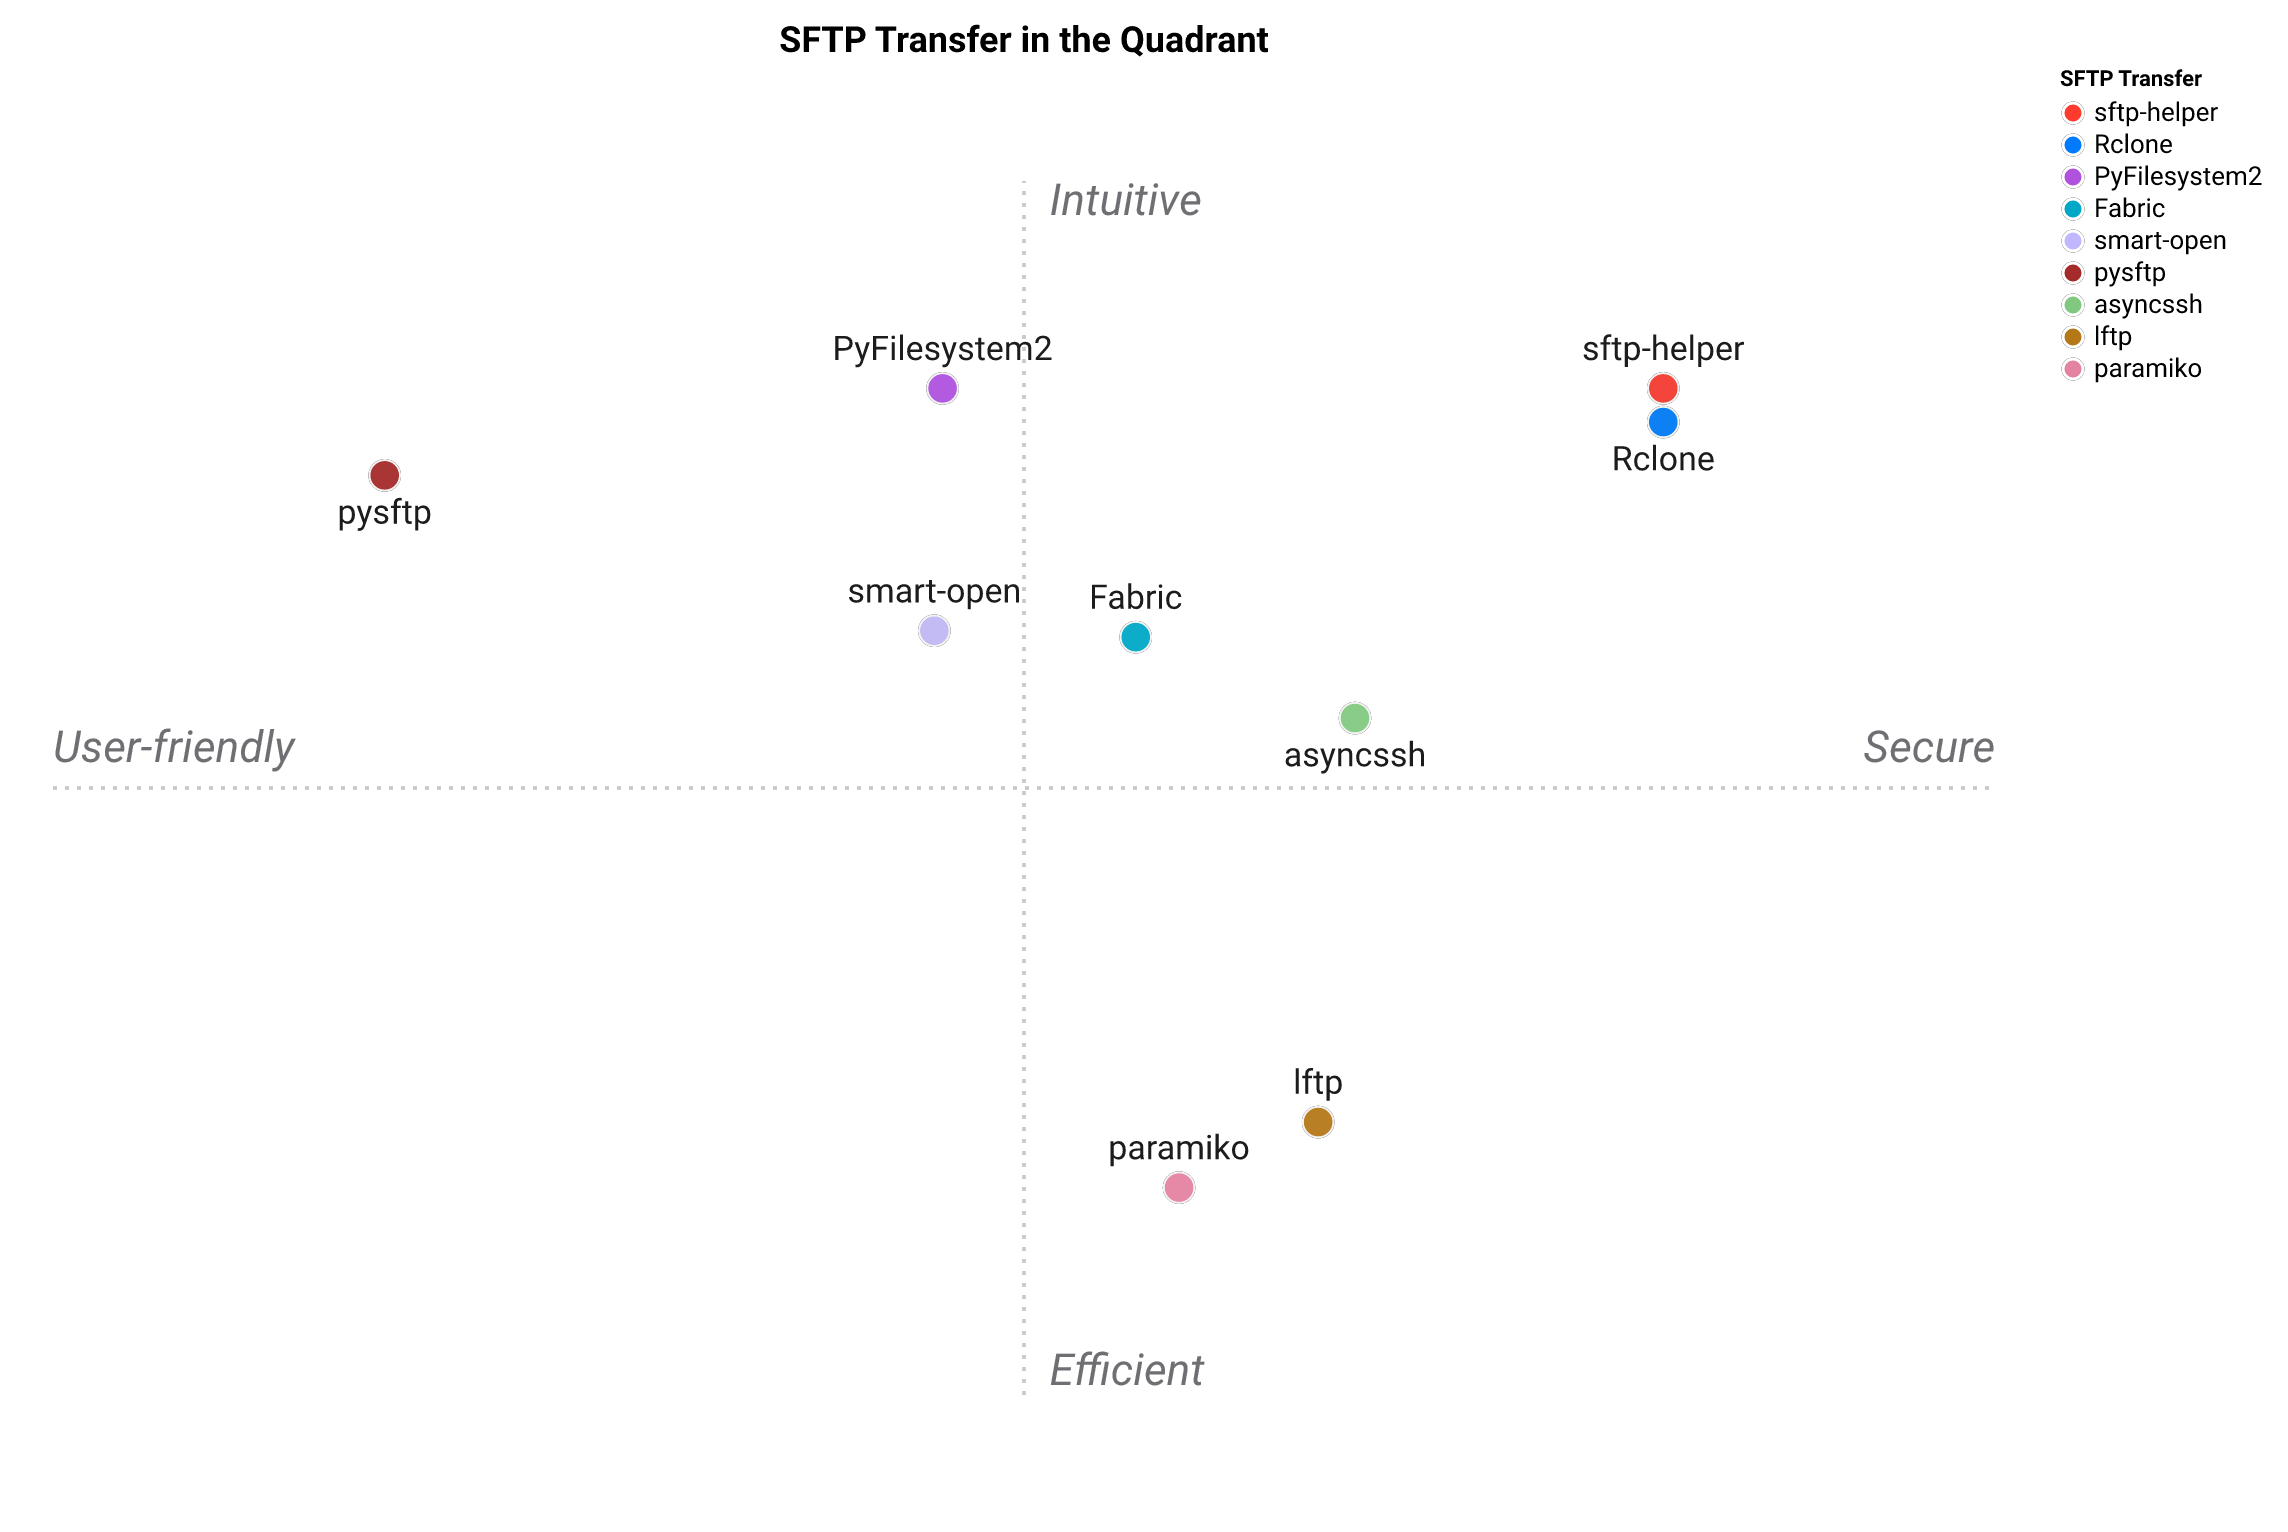
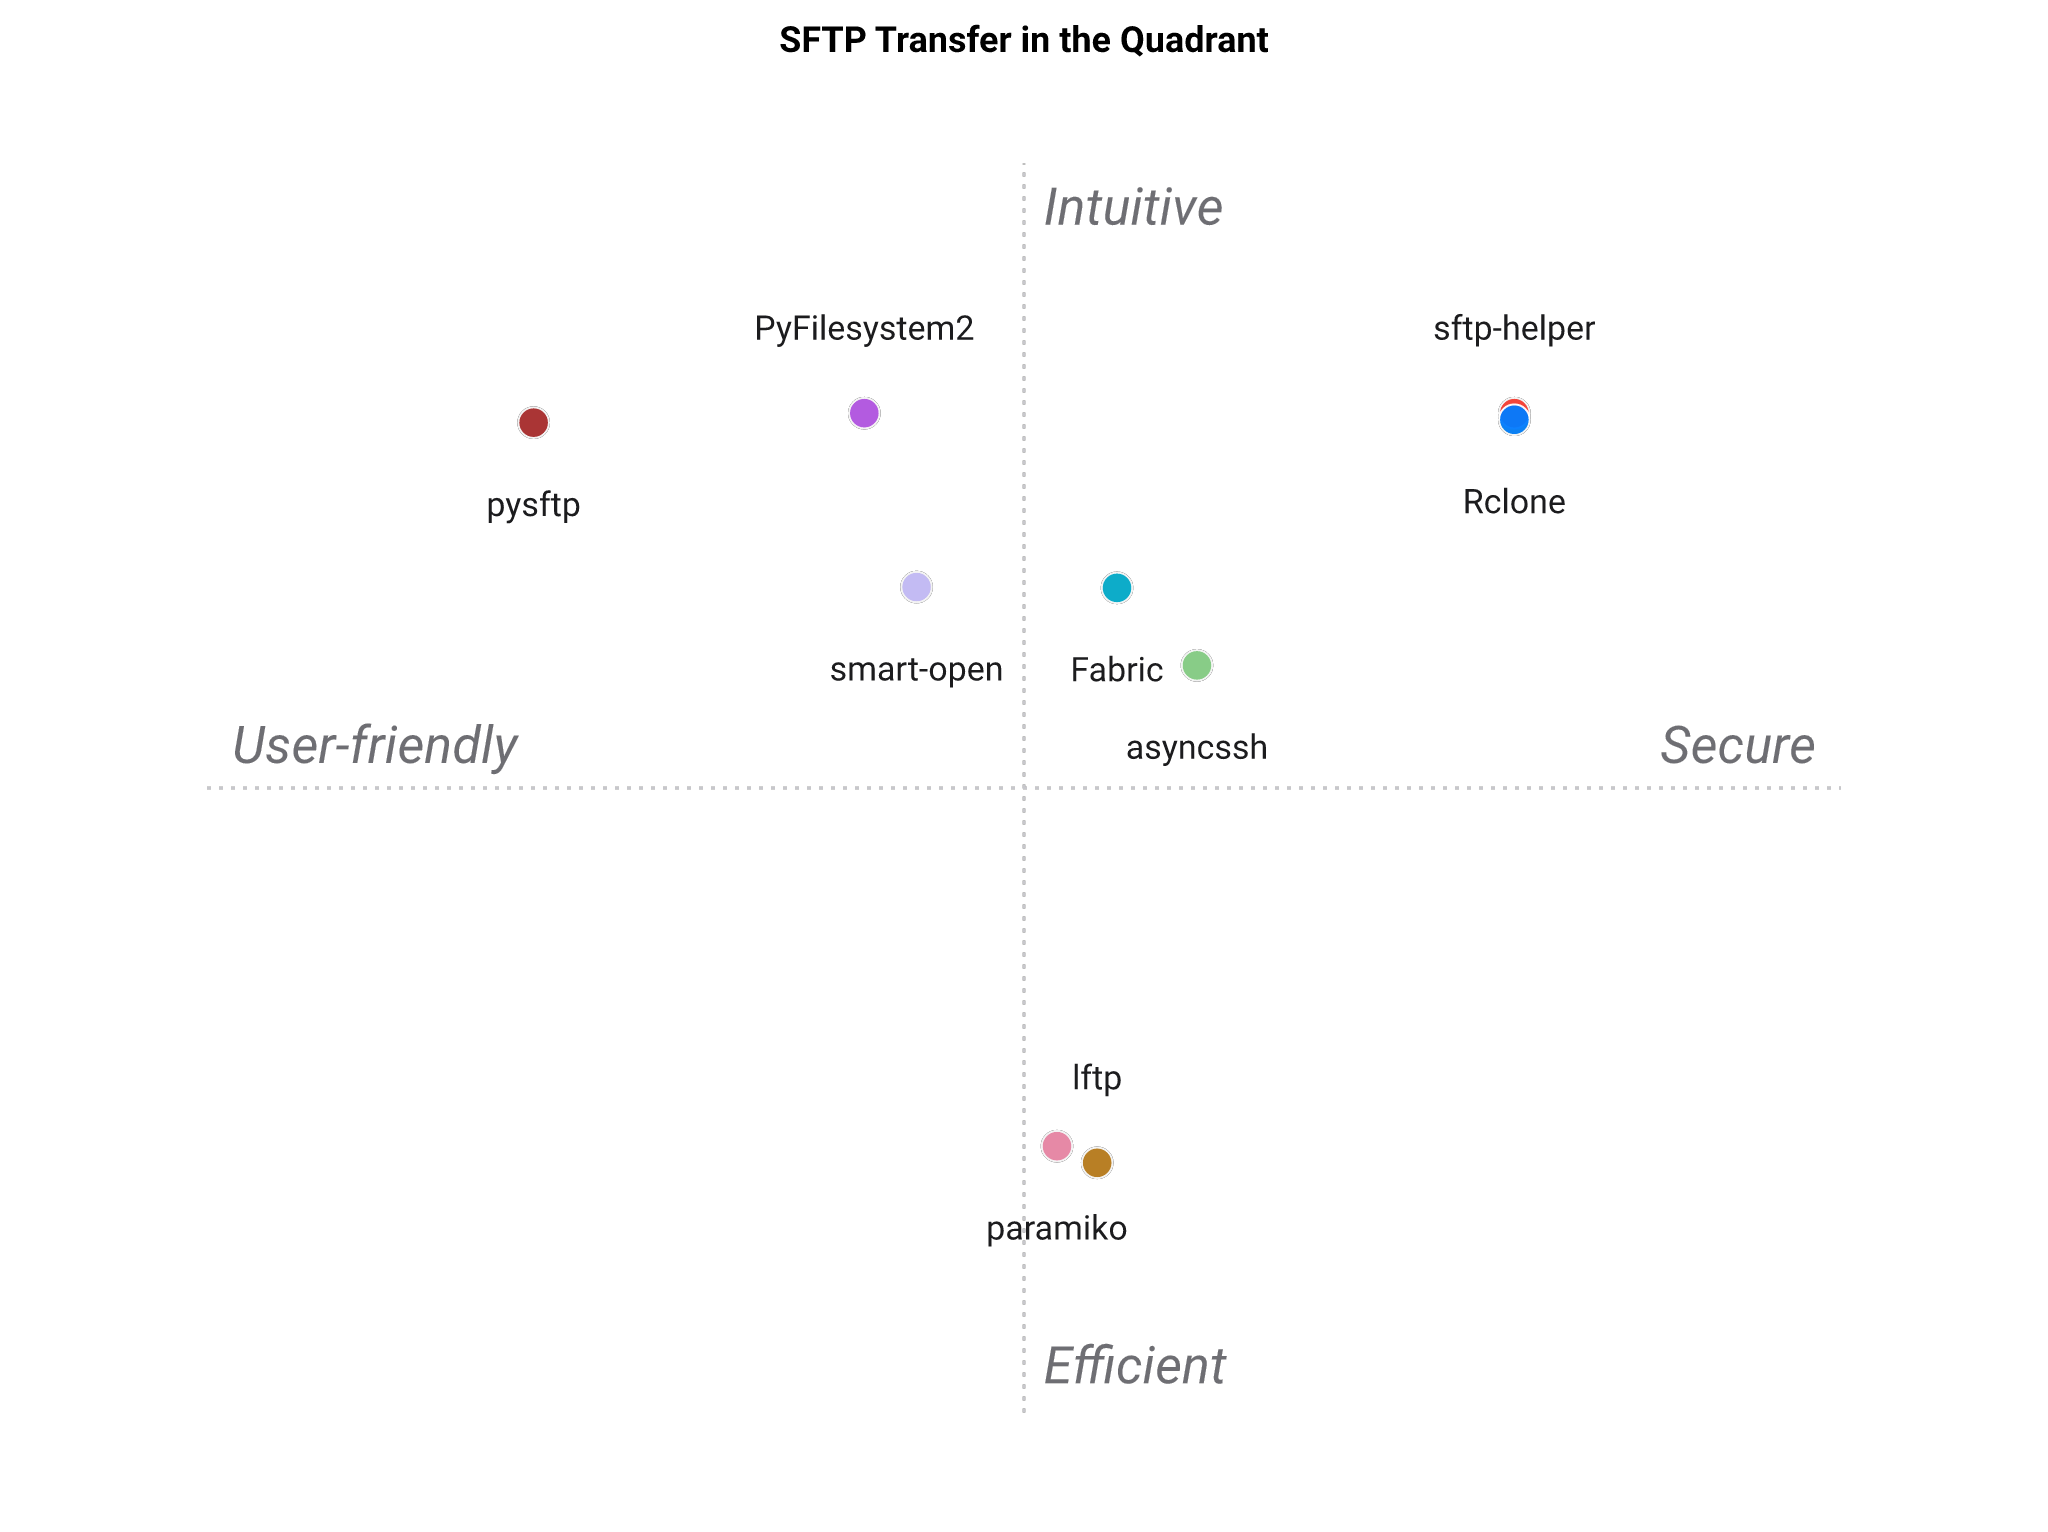
docs(landscape): refine ratings + regenerate positioning map
Refresh the comparison ratings (honest corrections for Fabric, PyFilesystem2,
lftp, Rclone) and regenerate the figure from the CSV via standpoint 0.6.0.
Scope the "only auto-cleaning remote-tempfile" claim to the Python libraries now
that Rclone's binary comes close.

diff --git a/PAYSAGE.md b/PAYSAGE.md
@@ -23,12 +23,12 @@ local à évaluer ici.
 | **sftp-helper** | ⭐⭐⭐⭐⭐ | ⭐⭐⭐⭐⭐ | ⭐⭐⭐⭐⭐ | ⭐⭐⭐⭐⭐ | ⭐⭐⭐⭐⭐ | ⭐⭐⭐⭐⭐ | ⭐⭐⭐⭐⭐ |
 | paramiko | ⭐⭐ | ⭐⭐ | ⭐ | ⭐ | ⭐ | ⭐⭐⭐⭐⭐ | ⭐⭐⭐⭐⭐ |
 | pysftp | ⭐⭐ | ⭐⭐⭐⭐ | ⭐ | ⭐ | ⭐ | ⭐ | ⭐⭐⭐⭐ |
-| Fabric | ⭐⭐⭐ | ⭐⭐⭐ | ⭐ | ⭐⭐ | ⭐⭐ | ⭐⭐⭐⭐ | ⭐⭐⭐⭐ |
+| Fabric | ⭐⭐⭐ | ⭐⭐⭐ | ⭐ | ⭐⭐ | ⭐⭐⭐ | ⭐⭐⭐⭐ | ⭐⭐⭐⭐ |
 | asyncssh | ⭐⭐⭐⭐ | ⭐⭐⭐ | ⭐⭐ | ⭐ | ⭐ | ⭐⭐⭐⭐⭐ | ⭐⭐⭐⭐ |
 | smart-open | ⭐⭐⭐ | ⭐⭐⭐⭐ | ⭐ | ⭐ | ⭐ | ⭐⭐⭐⭐ | ⭐⭐⭐⭐ |
-| PyFilesystem2 | ⭐⭐⭐ | ⭐⭐⭐⭐ | ⭐⭐ | ⭐⭐ | ⭐ | ⭐⭐⭐ | ⭐⭐⭐⭐ |
-| lftp | ⭐⭐⭐ | ⭐ | ⭐⭐ | ⭐ | ⭐ | ⭐⭐⭐⭐ | ⭐⭐⭐⭐⭐ |
-| Rclone | ⭐⭐⭐⭐ | ⭐⭐ | ⭐⭐ | ⭐⭐⭐ | ⭐⭐⭐⭐ | ⭐⭐⭐⭐⭐ | ⭐⭐⭐ |
+| PyFilesystem2 | ⭐⭐⭐ | ⭐⭐⭐⭐ | ⭐⭐ | ⭐ | ⭐ | ⭐⭐⭐ | ⭐⭐⭐⭐ |
+| lftp | ⭐⭐⭐ | ⭐ | ⭐ | ⭐ | ⭐ | ⭐⭐⭐⭐ | ⭐⭐⭐⭐⭐ |
+| Rclone | ⭐⭐⭐⭐ | ⭐⭐ | ⭐⭐ | ⭐⭐⭐⭐ | ⭐⭐⭐⭐ | ⭐⭐⭐⭐⭐ | ⭐⭐⭐ |
 <!-- TABLE:END -->
 
 ## Carte de positionnement
@@ -38,7 +38,7 @@ Représentation 2D du tableau ci-dessus.
 
 ![Carte de positionnement](https://raw.githubusercontent.com/warith-harchaoui/sftp-helper/main/assets/paysage.png)
 
-La carte est un résumé en 2D des 7 critères : à lire comme une forme, pas comme un classement. « sftp-helper » se situe dans le coin en haut à droite. Les axes se lisent **Horizontal — Intuitif ↔ Rigoureux** et **Vertical — Simple ↔ Efficace**.
+La carte est un résumé en 2D des 7 critères : à lire comme une forme, pas comme un classement. « sftp-helper » se situe dans le coin en haut à droite. Les axes se lisent **Horizontal — Intuitif ↔ Rigoureux** et **Vertical — Efficace ↔ Automatisé**.
 <!-- FIGURE:END -->
 
 ## Positionnement
@@ -63,7 +63,8 @@ d'hôte**, `sftp-helper` obtient le maximum car il applique par défaut
 vérifient que si on le câble soi-même, tandis qu'`asyncssh` et `Rclone`
 vérifient par défaut. Sur le **fichier distant temporaire**, le context
 manager `remote_tempfile` de `sftp-helper` est la seule implémentation
-de première classe à nettoyage automatique du domaine.
+de première classe à nettoyage automatique parmi les bibliothèques Python
+retenues ici — seul le binaire `Rclone` s'en approche.
 Sa note **multi-surface** reflète argparse + click + FastAPI
 derrière les mêmes signatures de fonctions, et son **chargeur de config**
 délègue à `os-helper` (JSON / YAML / env / .env). `Rclone` décroche une

diff --git a/LANDSCAPE.md b/LANDSCAPE.md
@@ -21,12 +21,12 @@ local-first mode to score here.
 | **sftp-helper** | ⭐⭐⭐⭐⭐ | ⭐⭐⭐⭐⭐ | ⭐⭐⭐⭐⭐ | ⭐⭐⭐⭐⭐ | ⭐⭐⭐⭐⭐ | ⭐⭐⭐⭐⭐ | ⭐⭐⭐⭐⭐ |
 | paramiko | ⭐⭐ | ⭐⭐ | ⭐ | ⭐ | ⭐ | ⭐⭐⭐⭐⭐ | ⭐⭐⭐⭐⭐ |
 | pysftp | ⭐⭐ | ⭐⭐⭐⭐ | ⭐ | ⭐ | ⭐ | ⭐ | ⭐⭐⭐⭐ |
-| Fabric | ⭐⭐⭐ | ⭐⭐⭐ | ⭐ | ⭐⭐ | ⭐⭐ | ⭐⭐⭐⭐ | ⭐⭐⭐⭐ |
+| Fabric | ⭐⭐⭐ | ⭐⭐⭐ | ⭐ | ⭐⭐ | ⭐⭐⭐ | ⭐⭐⭐⭐ | ⭐⭐⭐⭐ |
 | asyncssh | ⭐⭐⭐⭐ | ⭐⭐⭐ | ⭐⭐ | ⭐ | ⭐ | ⭐⭐⭐⭐⭐ | ⭐⭐⭐⭐ |
 | smart-open | ⭐⭐⭐ | ⭐⭐⭐⭐ | ⭐ | ⭐ | ⭐ | ⭐⭐⭐⭐ | ⭐⭐⭐⭐ |
-| PyFilesystem2 | ⭐⭐⭐ | ⭐⭐⭐⭐ | ⭐⭐ | ⭐⭐ | ⭐ | ⭐⭐⭐ | ⭐⭐⭐⭐ |
-| lftp | ⭐⭐⭐ | ⭐ | ⭐⭐ | ⭐ | ⭐ | ⭐⭐⭐⭐ | ⭐⭐⭐⭐⭐ |
-| Rclone | ⭐⭐⭐⭐ | ⭐⭐ | ⭐⭐ | ⭐⭐⭐ | ⭐⭐⭐⭐ | ⭐⭐⭐⭐⭐ | ⭐⭐⭐ |
+| PyFilesystem2 | ⭐⭐⭐ | ⭐⭐⭐⭐ | ⭐⭐ | ⭐ | ⭐ | ⭐⭐⭐ | ⭐⭐⭐⭐ |
+| lftp | ⭐⭐⭐ | ⭐ | ⭐ | ⭐ | ⭐ | ⭐⭐⭐⭐ | ⭐⭐⭐⭐⭐ |
+| Rclone | ⭐⭐⭐⭐ | ⭐⭐ | ⭐⭐ | ⭐⭐⭐⭐ | ⭐⭐⭐⭐ | ⭐⭐⭐⭐⭐ | ⭐⭐⭐ |
 <!-- TABLE:END -->
 
 ## Positioning map
@@ -59,7 +59,8 @@ A few notes behind the ratings. On **host-key verification**,
 opt-out flag; `paramiko` and `pysftp` only verify if you wire it
 yourself, while `asyncssh` and `Rclone` verify by default. On
 **temp remote file**, `sftp-helper`'s `remote_tempfile` context manager
-is the only first-class, auto-cleaning implementation in the field. Its
+is the only first-class, auto-cleaning implementation among the Python
+libraries here — only `Rclone`'s binary comes close. Its
 **multi-surface** score reflects argparse + click + FastAPI behind
 the same function signatures, and its **config loader** delegates to
 `os-helper` (JSON / YAML / env / .env). `Rclone` earns a strong config
